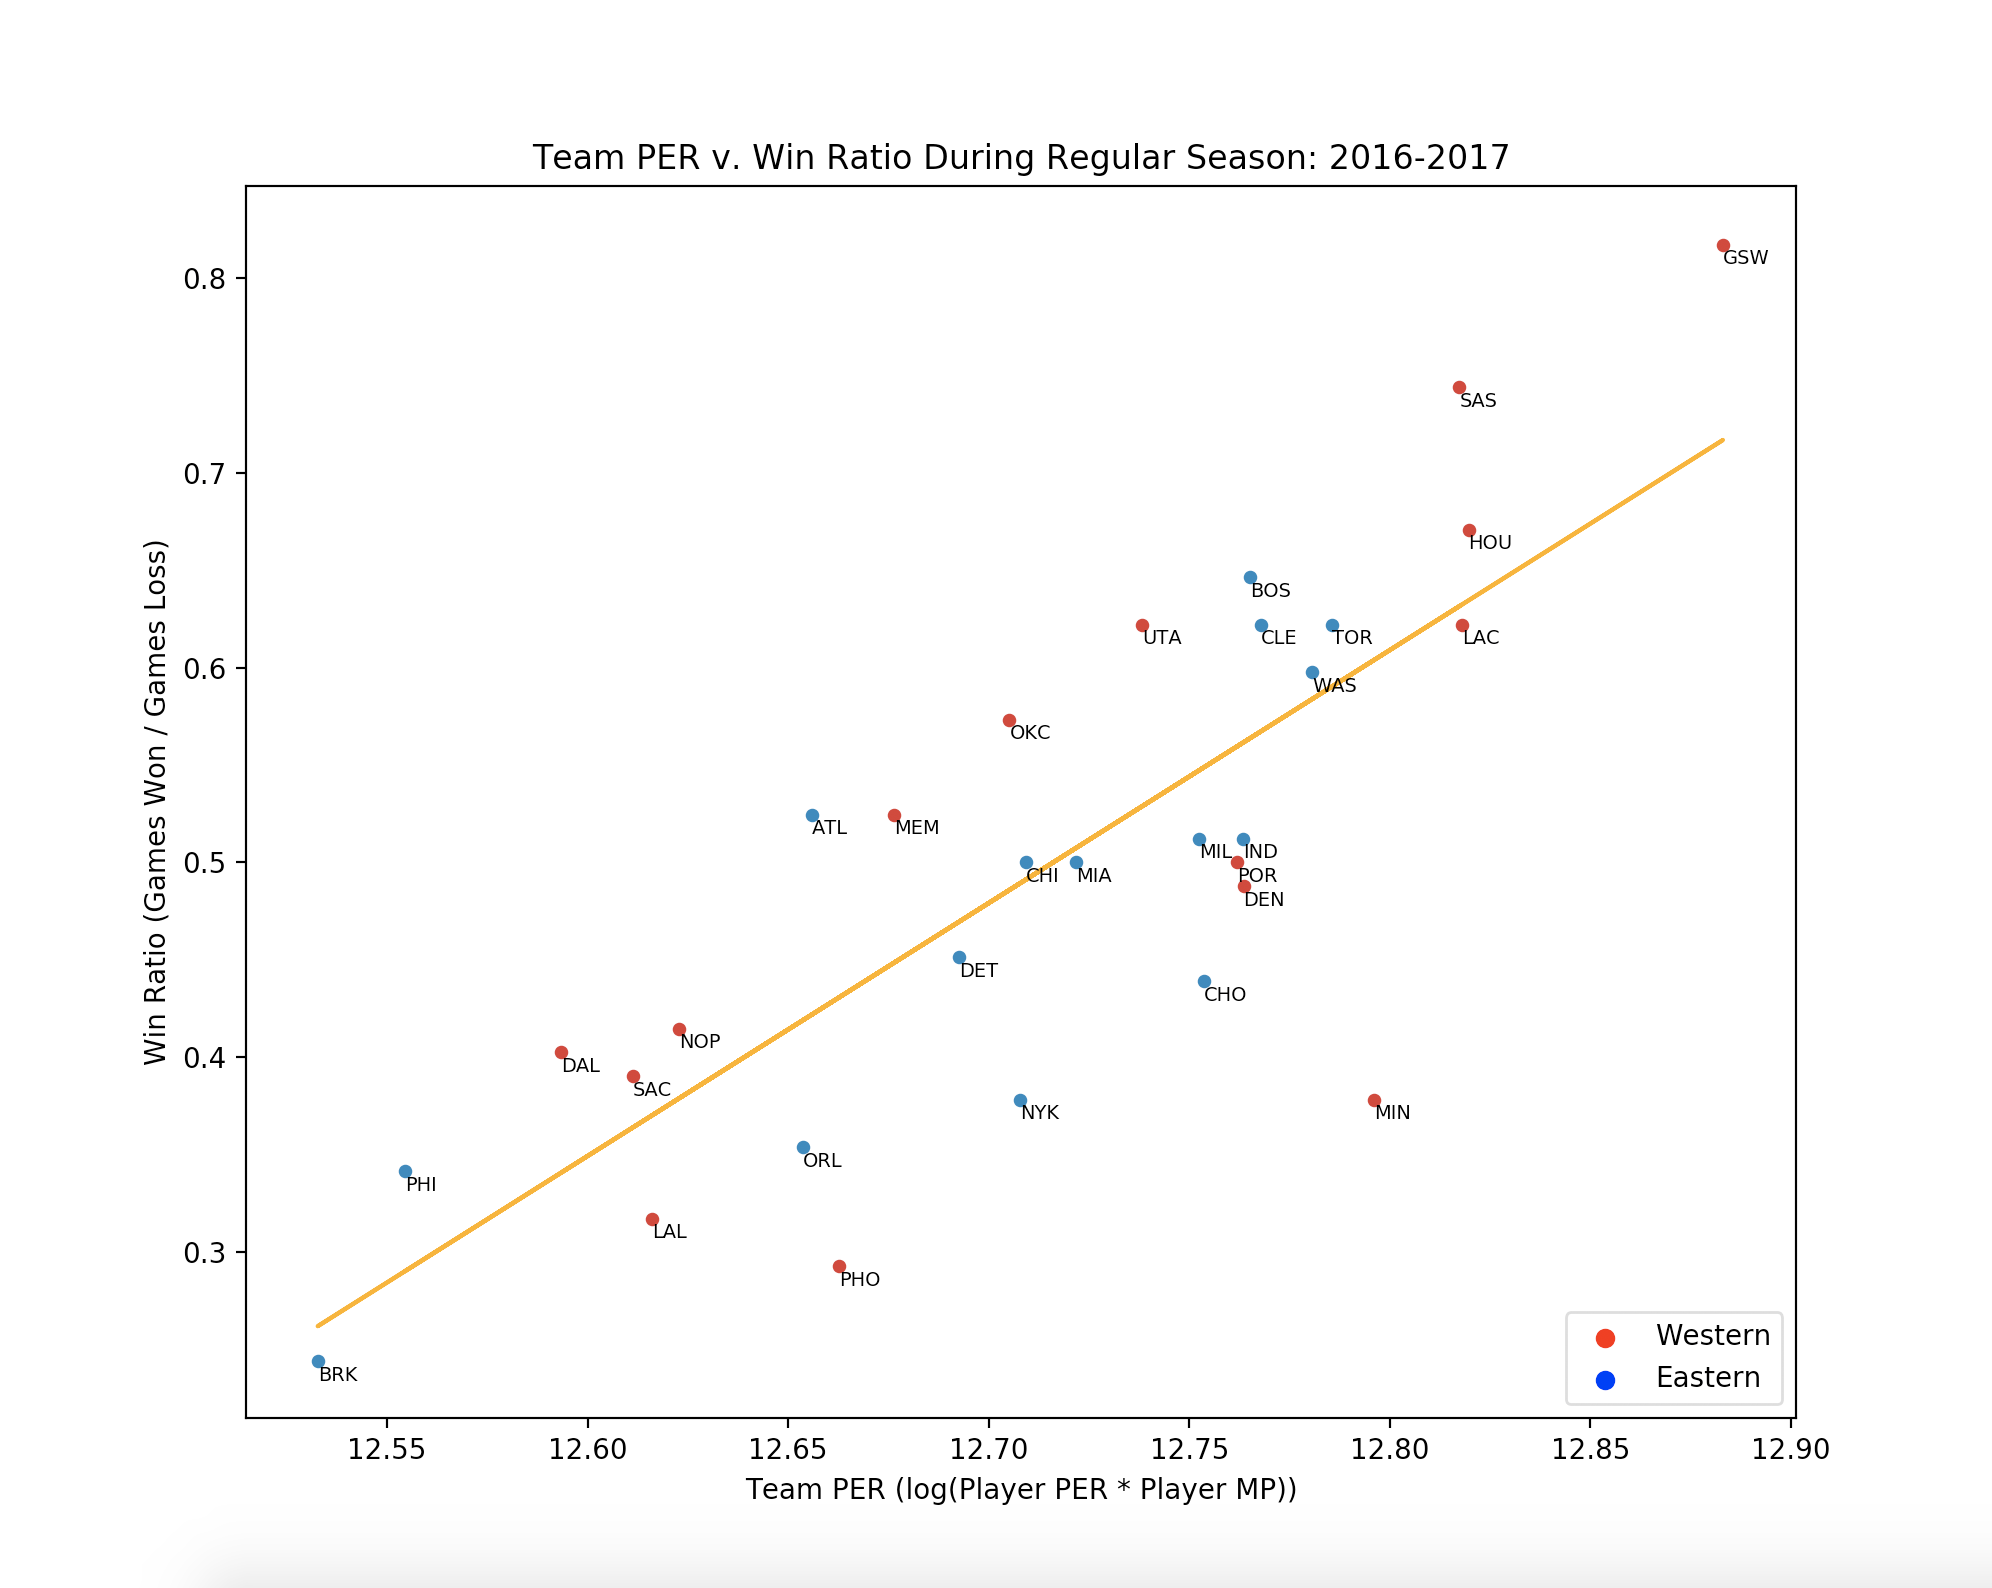
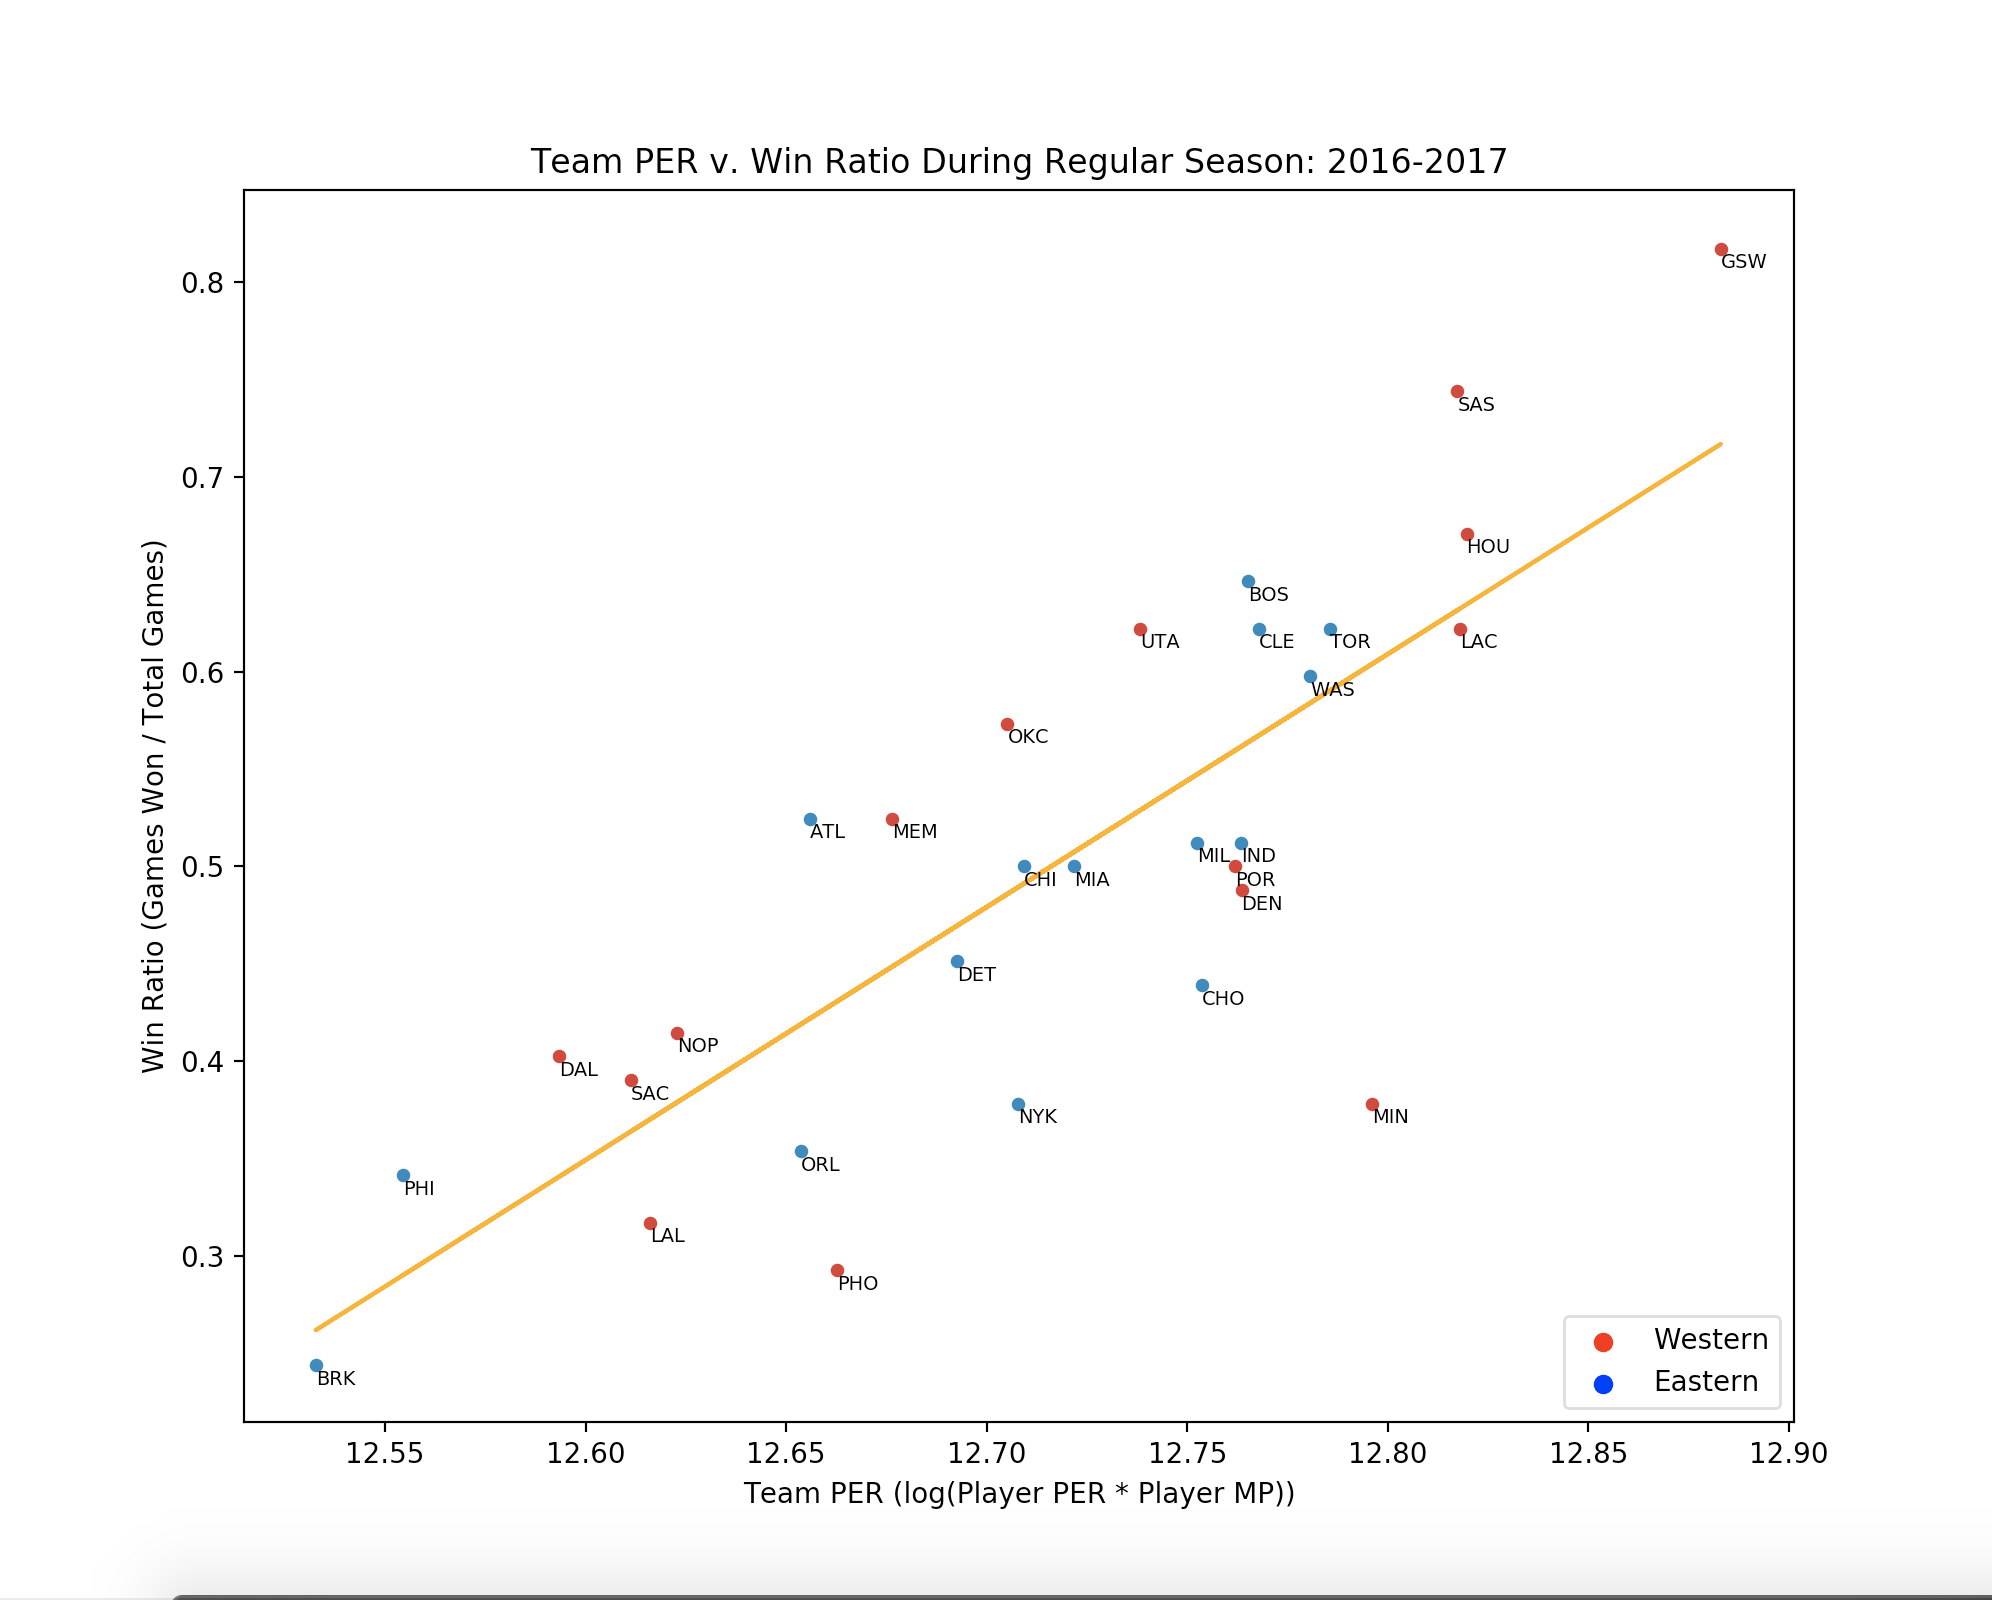
finished prediction calculation and graph

diff --git a/4_DA/NBA_DA.py b/4_DA/NBA_DA.py
@@ -288,12 +288,12 @@ def corr_teamPER_winRatio():
         ax.plot(x_data,trendpoly(x_data), c='orange')
 
         plt.title('Team PER v. Win Ratio During Regular Season: {}'.format(ind_season['Season'].iloc[0]))
-        plt.ylabel('Win Ratio (Games Won / Games Loss)')
+        plt.ylabel('Win Ratio (Games Won / Total Games)')
         plt.xlabel('Team PER (log(Player PER * Player MP))')
 
         
     plt.show()
-
+corr_teamPER_winRatio()
 def ols_teamPER_winRatio():
     """returns table of OLS metrics"""
     df_teams = pd.read_csv('4_team_data_final.csv')
@@ -432,38 +432,49 @@ def future_test():
 
     # 2018 - 2019 Western
     west_teams = df_teams[(df_teams['Season']=='2018-2019') & (df_teams['Conference']=='Western')]
-    y_18_west = west_teams['Team PER']
-    x_18_west = west_teams['Win Ratio']
+    y_18_west = list(west_teams['Win Ratio'])
+    x_18_west = list(west_teams['Rk'])
     names_west = west_teams['Tm']
 
     # 2018-2019 Eastern
     east_teams = df_teams[(df_teams['Season']=='2018-2019') & (df_teams['Conference']=='Eastern')]
-    y_18_east = east_teams['Team PER']
-    x_18_east = east_teams['Win Ratio']
+    y_18_east = list(east_teams['Win Ratio'])
+    x_18_east = list(east_teams['Rk'])
     names_east = east_teams['Tm']
 
-    x = df_teams[df_teams['Season']=='2018-2019']['Win Ratio']
+    rk = df_teams[df_teams['Season']=='2018-2019']['Rk']
+    teamPER_pred = df_teams[df_teams['Season']=='2018-2019']['Team PER']
 
-    y_16_pred = []
-    y_17_pred = []
+    winR_16_pred = []
+    winR_17_pred = []
 
-    for i in x:
-        res = 12.4674 + 0.4974 * i # 2016
-        y_16_pred.append(res)
-        res = 12.4140 + 0.5646 * i # 2017
-        y_17_pred.append(res)
+    for i in teamPER_pred:
+        res = (i - 12.4674)/0.4974 # 2016
+        winR_16_pred.append(res)
+        res = (i - 12.4140)/0.5646 # 2017
+        winR_17_pred.append(res)
     
-    fig = plt.figure(figsize=(10, 8))
+    fig = plt.figure(figsize=(12, 8))
     ax = plt.subplot(111)
     ax.set_xmargin(0.05)
     ax.set_ymargin(0.05)
 
     plt.scatter(x_18_west, y_18_west, color='r', label='Western')
     plt.scatter(x_18_east, y_18_east, color='b', label='Eastern')
-    plt.scatter(x, y_16_pred, color='c', label='2016 predicted')
-    plt.scatter(x, y_17_pred, color='m', label='2017 predicted')
-    plt.legend(loc="lower right")
+    plt.scatter(rk, winR_16_pred, color='c', label='2016 predicted')
+    plt.scatter(rk, winR_17_pred, color='m', label='2017 predicted')
+    plt.legend(loc="upper right")
 
+    for i, txt in enumerate(names_west):
+        ax.annotate(txt, (x_18_west[i]+0.05, y_18_west[i]), size=10)
+    
+    for i, txt in enumerate(names_east):
+        ax.annotate(txt, (x_18_east[i]+0.05, y_18_east[i]), size=10)
+
+    plt.title('2018-2019 Regular Season Prediction')
+    plt.ylabel('Win Ratio (Games Won / Total Games)')
+    plt.xlabel('Season Ranking')
+    plt.tight_layout()
     plt.show()
 
 future_test()

diff --git a/readme.md b/readme.md
@@ -121,7 +121,7 @@ The summary of our linear model using Ordinary Least Squares indicated that our 
 ### Potential Future Projections
 The linear models for the 2016-2017 and 2017-2018 were tested with 2018-2019 data to determine if there was any predictive power for the next season. 
 
-IN PROGRESS
+![Pred_18-19]()
 
 ## Discussion
 As soon with data from the last 3 seasons, there is a clear linear relationship between Team PER and win ratio. This relationship makes sense given that teams with higher PER should perform better, this win more games during the season. While our linear models were significant with supporting adjusted R^2 and F-statistic values from Wald test, there were outliers in our data. 
